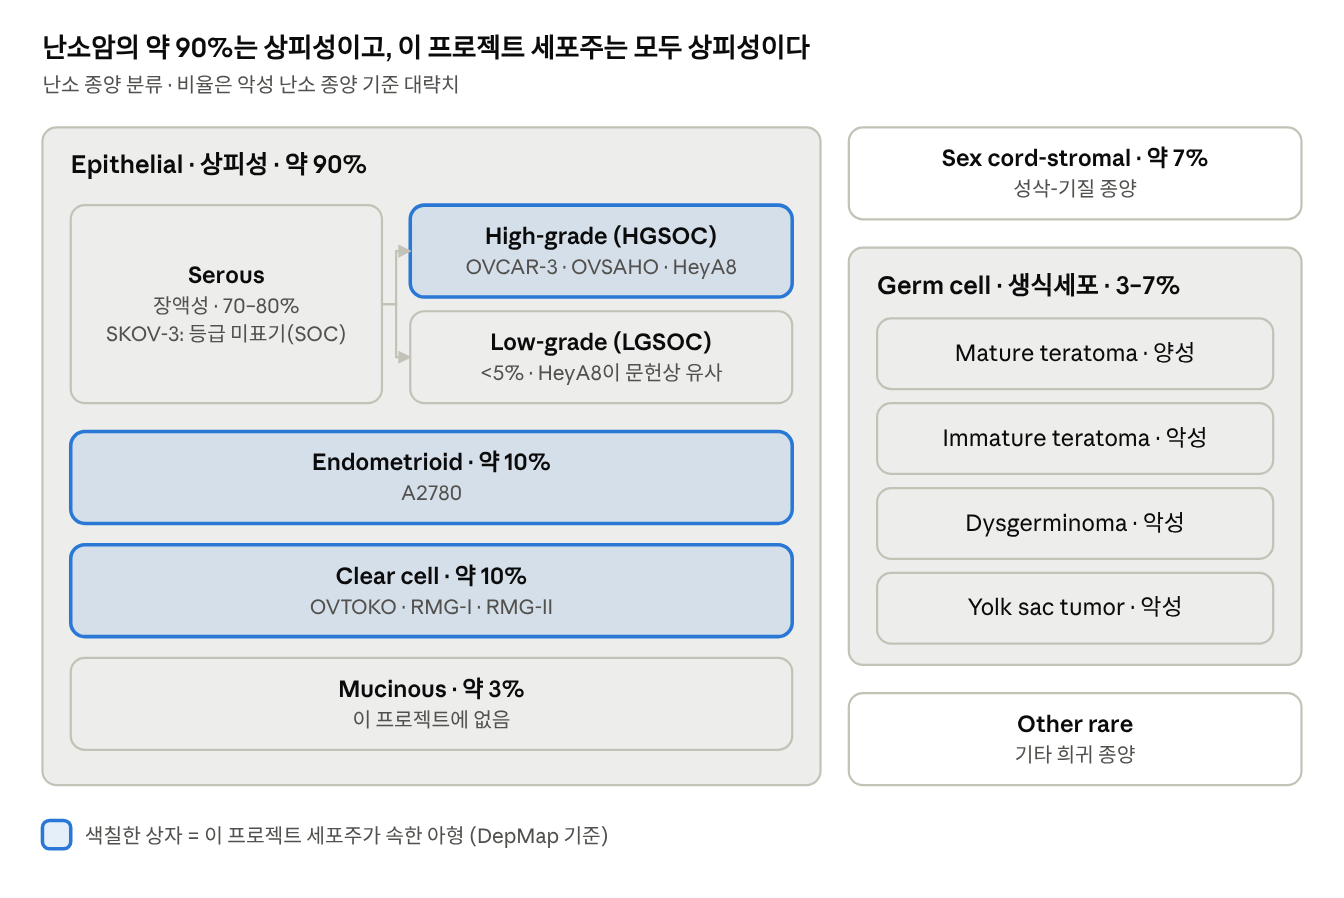
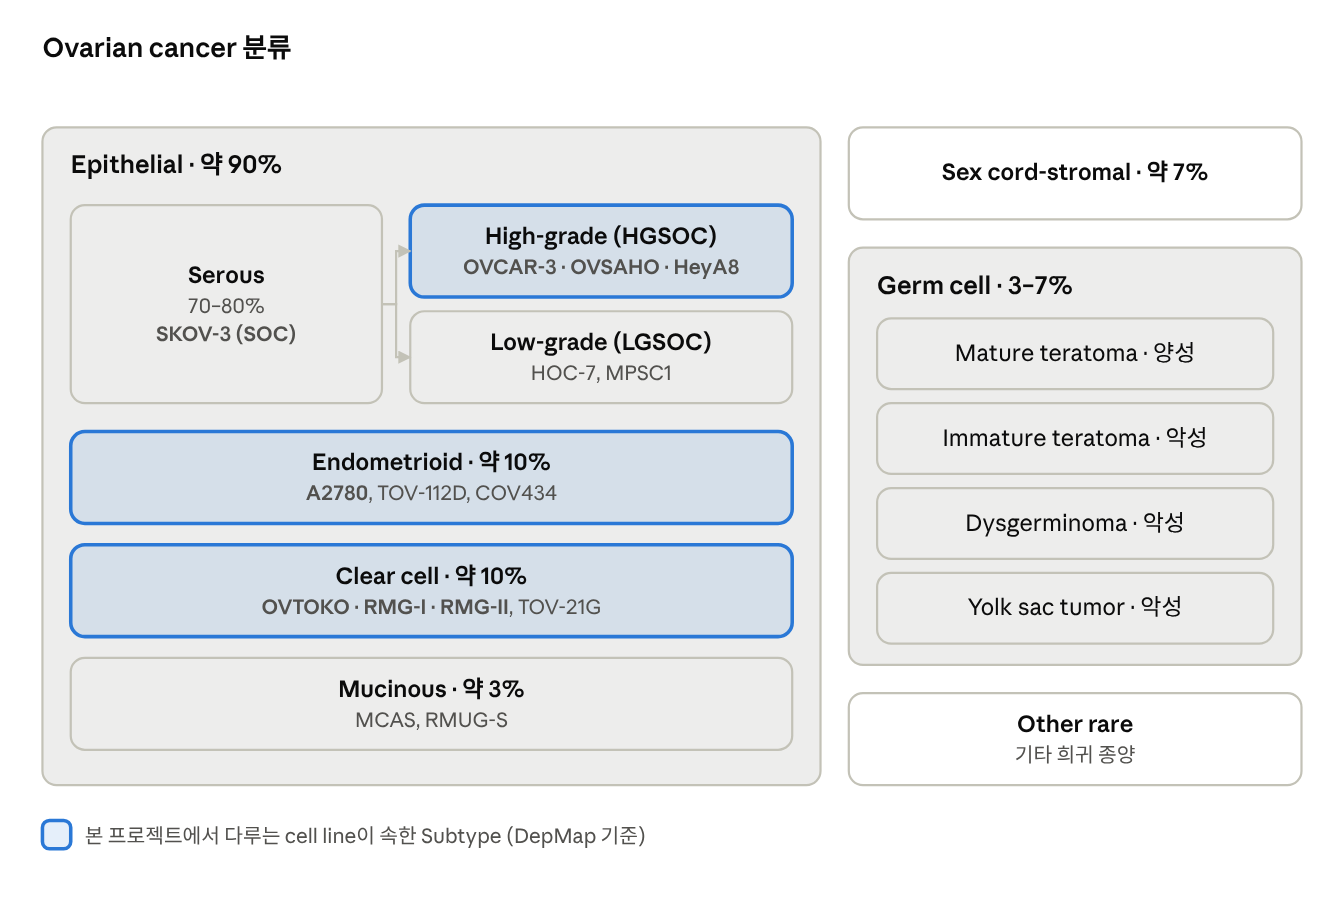
난소 종양 분류 그림: 가운데 맞춤, Mucinous 세포주, 프로젝트 세포주 굵게
Claude-Session: https://claude.ai/code/session_01A7ib3VZK7j2jp9Pem35jhT

diff --git a/sync/SYNC.md b/sync/SYNC.md
@@ -38,6 +38,7 @@ Claude Docs 문서: https://claude.ai/code/artifact/fe866b38-7b85-4c83-b3e8-2fc0
 
 | 시각 | 방향 | 내용 |
 | --- | --- | --- |
+| 2026-09-30 14:xx | Docs → Notion | 난소 종양 분류 위젯(사용자 수정 + 댓글 요청: 가운데 맞춤, Mucinous에 MCAS·RMUG-S, 프로젝트 세포주 굵게)을 SVG로 다시 만들어 Notion 이미지 추가. 이전 이미지(같은 캡션, 두 번째 것)는 캡션 변경이 안 돼 사용자 삭제 필요 |
 | 2026-09-30 14:xx | 양쪽 동시 수정 | 배경 공부 탭에 그림 2개(난소 종양 분류, 세포주 8종 문헌 vs DepMap 아형) 추가, Notion에는 SVG 이미지로 같은 위치에 삽입. 메인 작업 로그 한 줄 추가. 기준본 갱신 |
 | 2026-09-30 13:xx | 양방향 | Notion→Docs: "할 일" 제목을 "9/28-1002"로 바꾸고 굵은 안내 문단 삭제, Background Study 첫 문장, CCLE 사용법 A·B 제목, A-2의 "→ HEYA8: ACH-000542", 배경 공부 "공부 자료". Docs→Notion: 0단계 아형 항목 체크. 양쪽 동시: OVCAR-3 아형 HGSOC 확정. 충돌 없음. Notion 표의 OVCAR-3·RMG2 굵게는 서식 차이라 반영 안 함 |
 | 2026-09-30 13:xx | 양쪽 동시 수정 | 사용자 요청으로 세포주 아형을 DepMap 기준으로 수정(메인·배경 공부 탭 모두). Docs와 Notion에 같은 수정을 넣고 기준본 2개에도 같은 수정만 반영. 출발 조직 다이어그램 SVG 교체(이전 Notion 이미지는 사용자 삭제 필요). 그 전에 쌓인 미동기화 차이는 그대로 남아 있음 → 다음 동기화 때 처리 |
